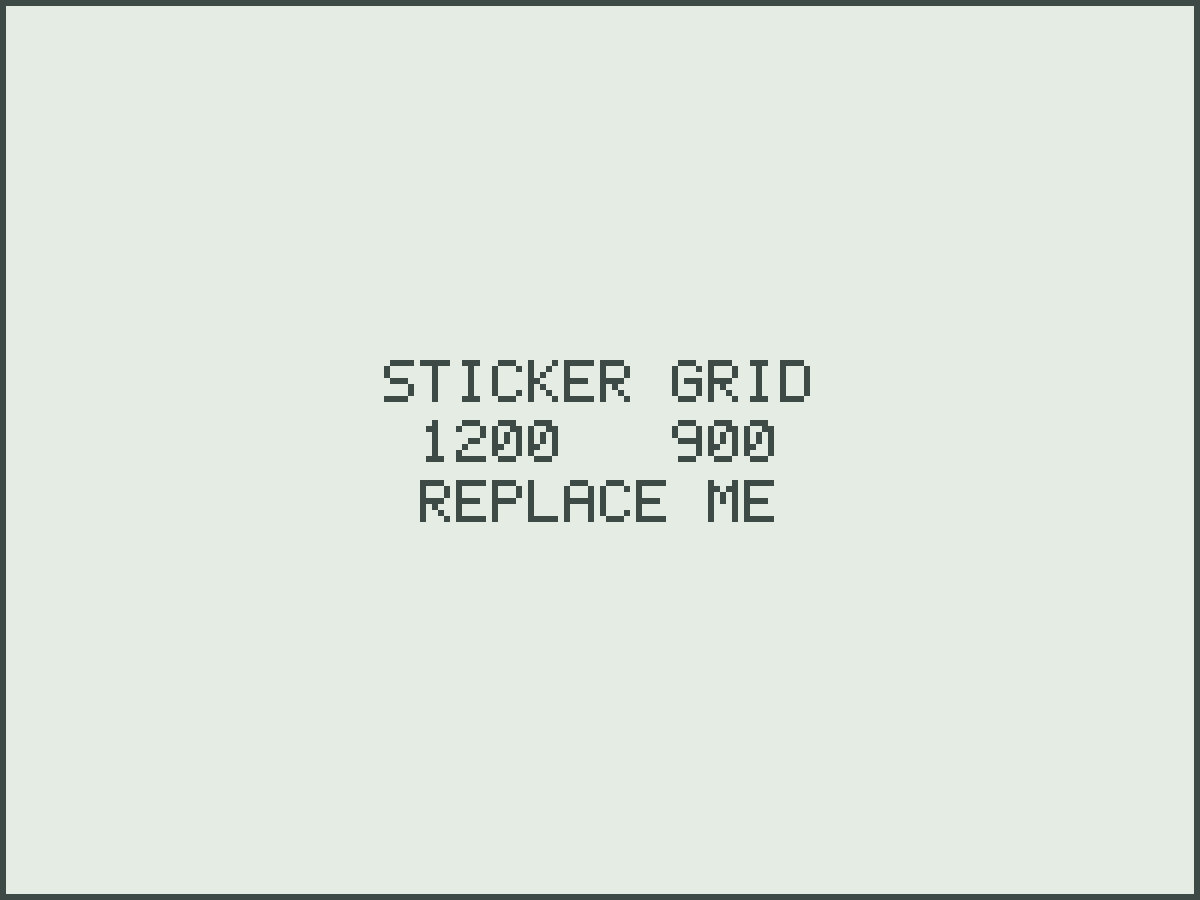
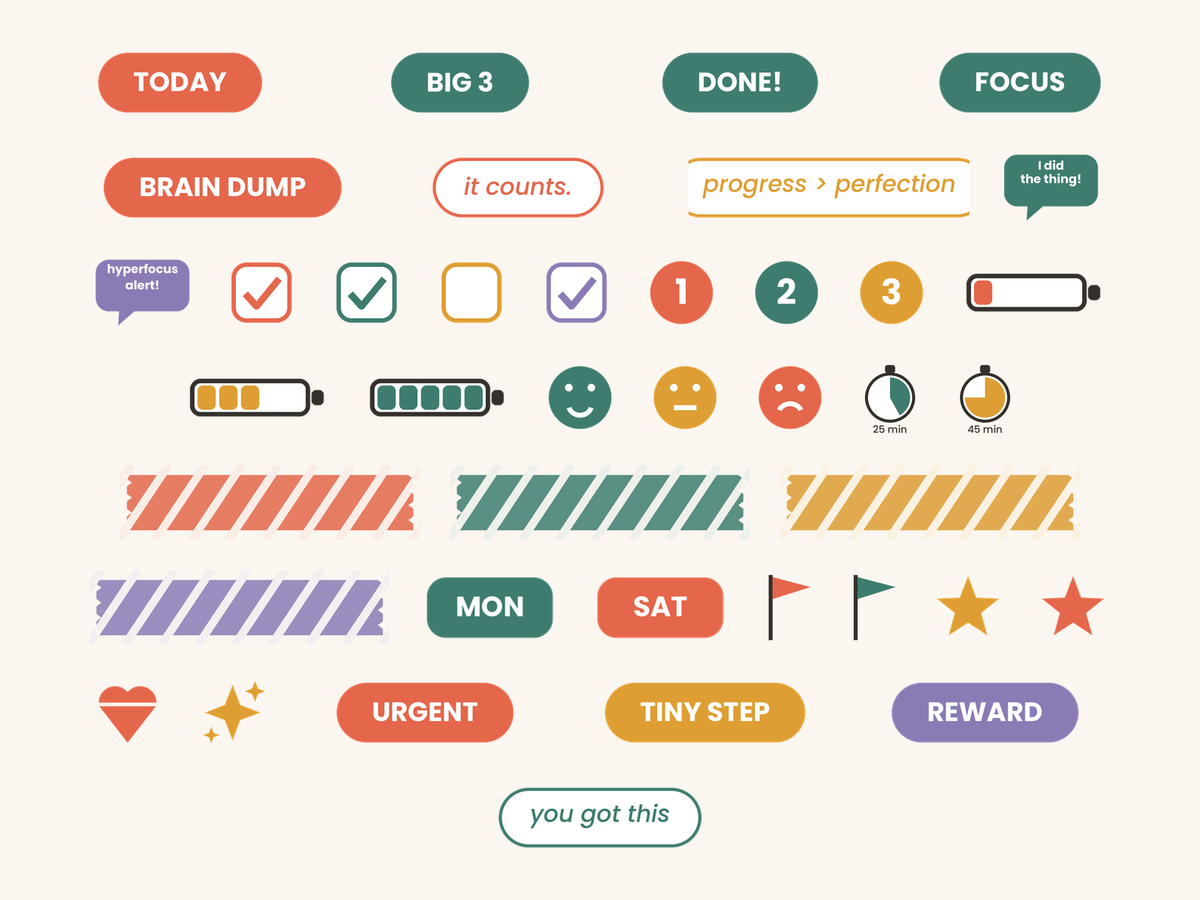
Add real product images to the sticker system section
Replace the placeholders with the actual assets:
- sticker-grid.png — the 63-sticker preview grid
- sticker-book-cover.png — the Digital Stickers sticker book cover
- planner-daily-page.png — the Daily 'Today' page (renamed from the
  ipad-goodnotes placeholder; alt + dimensions updated to match)

diff --git a/components/StickerShowcase.tsx b/components/StickerShowcase.tsx
@@ -7,7 +7,7 @@ import { PRODUCT } from "@/lib/config";
  * Uses plain <img> for the placeholder PNGs (matching the review-photo
  * pattern in Testimonials). Drop real art into public/products/ later —
  * the filenames are stable: sticker-grid.png, sticker-book-cover.png,
- * ipad-goodnotes.png.
+ * planner-daily-page.png.
  */
 export default function StickerShowcase() {
   return (
@@ -52,12 +52,12 @@ export default function StickerShowcase() {
                     className="w-full rounded-3xl shadow-soft"
                   />
                   <img
-                    src="/products/ipad-goodnotes.png"
-                    alt="The MindTidy planner open in GoodNotes on an iPad with digital stickers applied"
+                    src="/products/planner-daily-page.png"
+                    alt="The Daily “Today” page from the MindTidy ADHD planner — Big 3, time anchors and an energy check, ready for stickers"
                     width={1200}
-                    height={900}
+                    height={1553}
                     loading="lazy"
-                    className="w-full self-center rounded-3xl shadow-soft"
+                    className="w-full self-start rounded-3xl shadow-soft"
                   />
                 </div>
                 <ul className="space-y-2.5">
